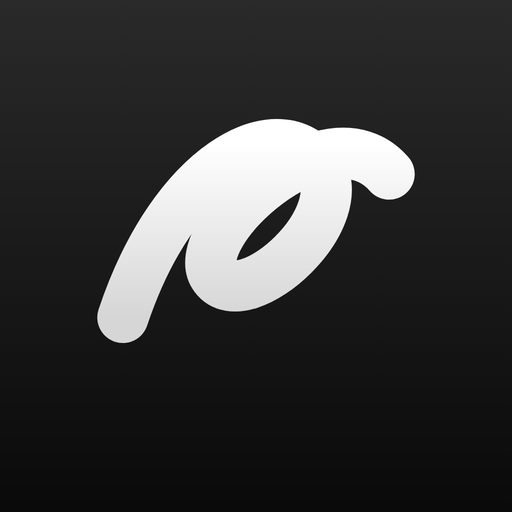
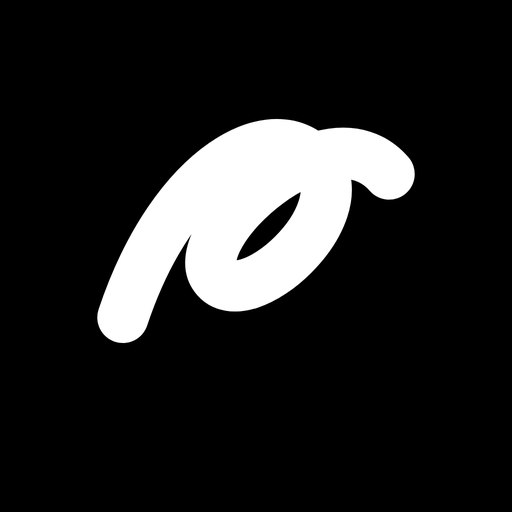
Symbol: rein schwarz-weiß
Claude-Session: https://claude.ai/code/session_01PsrKPWyMnv24gpXf1j5TY1

diff --git a/sw.js b/sw.js
@@ -1,5 +1,5 @@
 /* Quicknote Service Worker: App offline verfügbar halten. GitHub-API wird nie zwischengespeichert. */
-const VERSION = "qn-v8";
+const VERSION = "qn-v9";
 const SHELL = ["./", "index.html", "app.css", "app.js", "manifest.webmanifest", "icons/icon-180.png", "icons/icon-192.png", "icons/icon-512.png"];
 
 self.addEventListener("install", (e) => {
